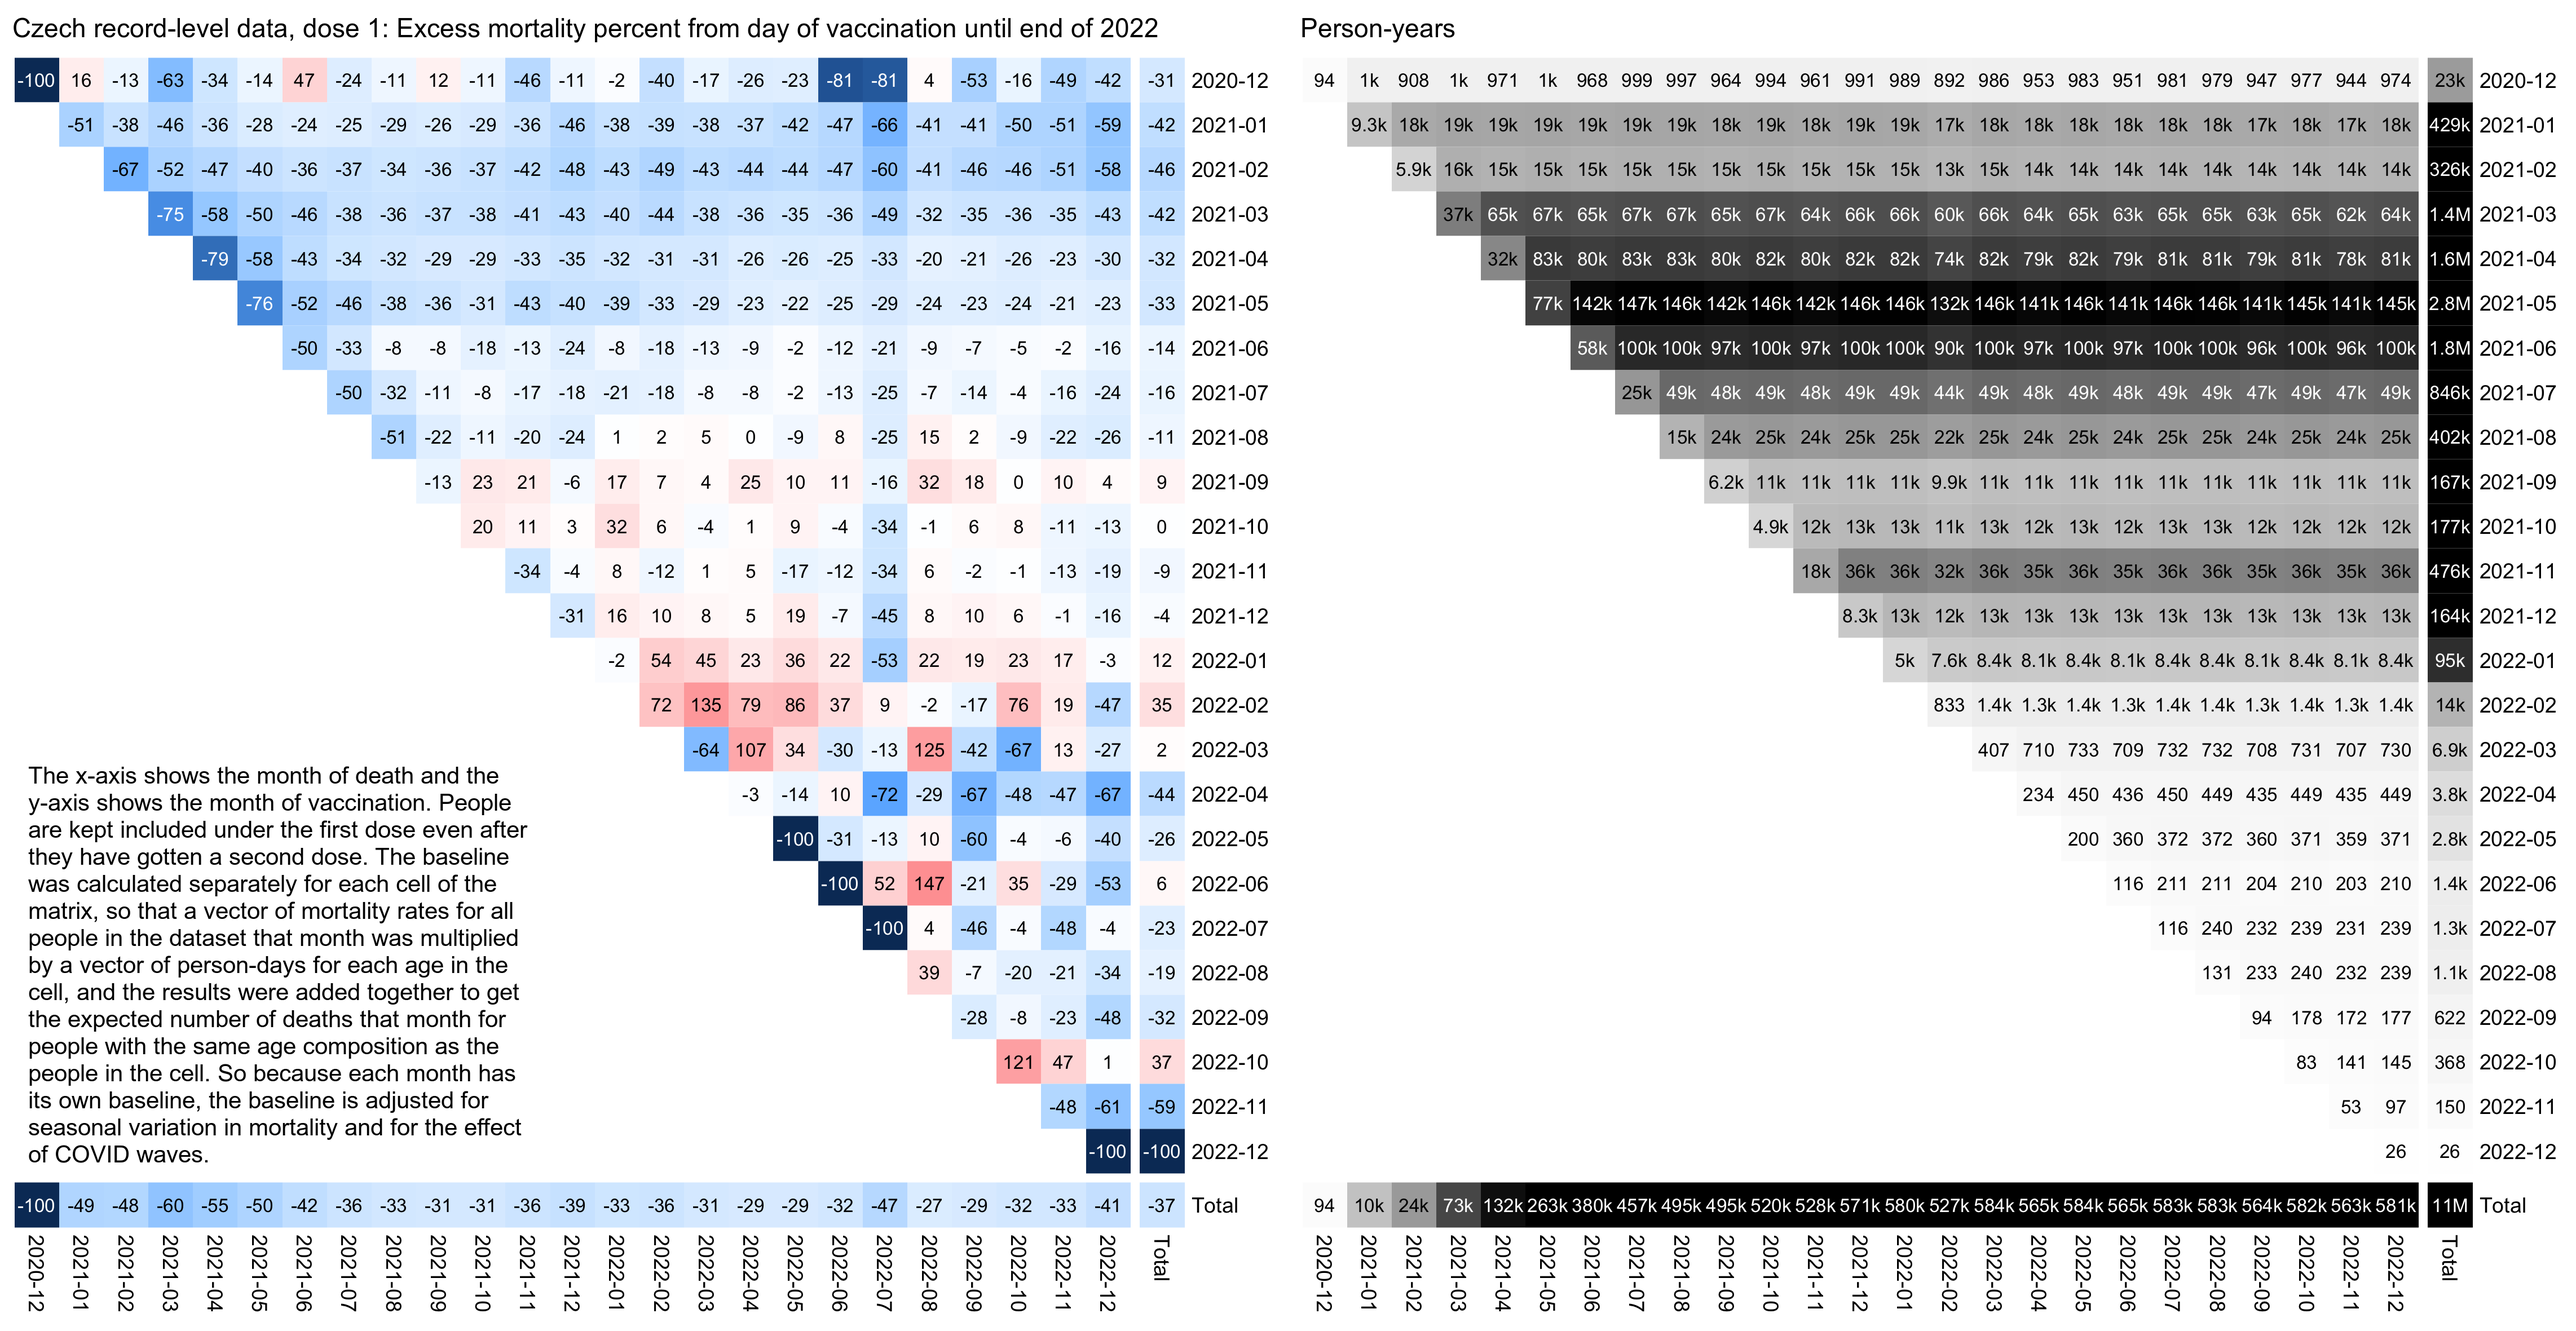
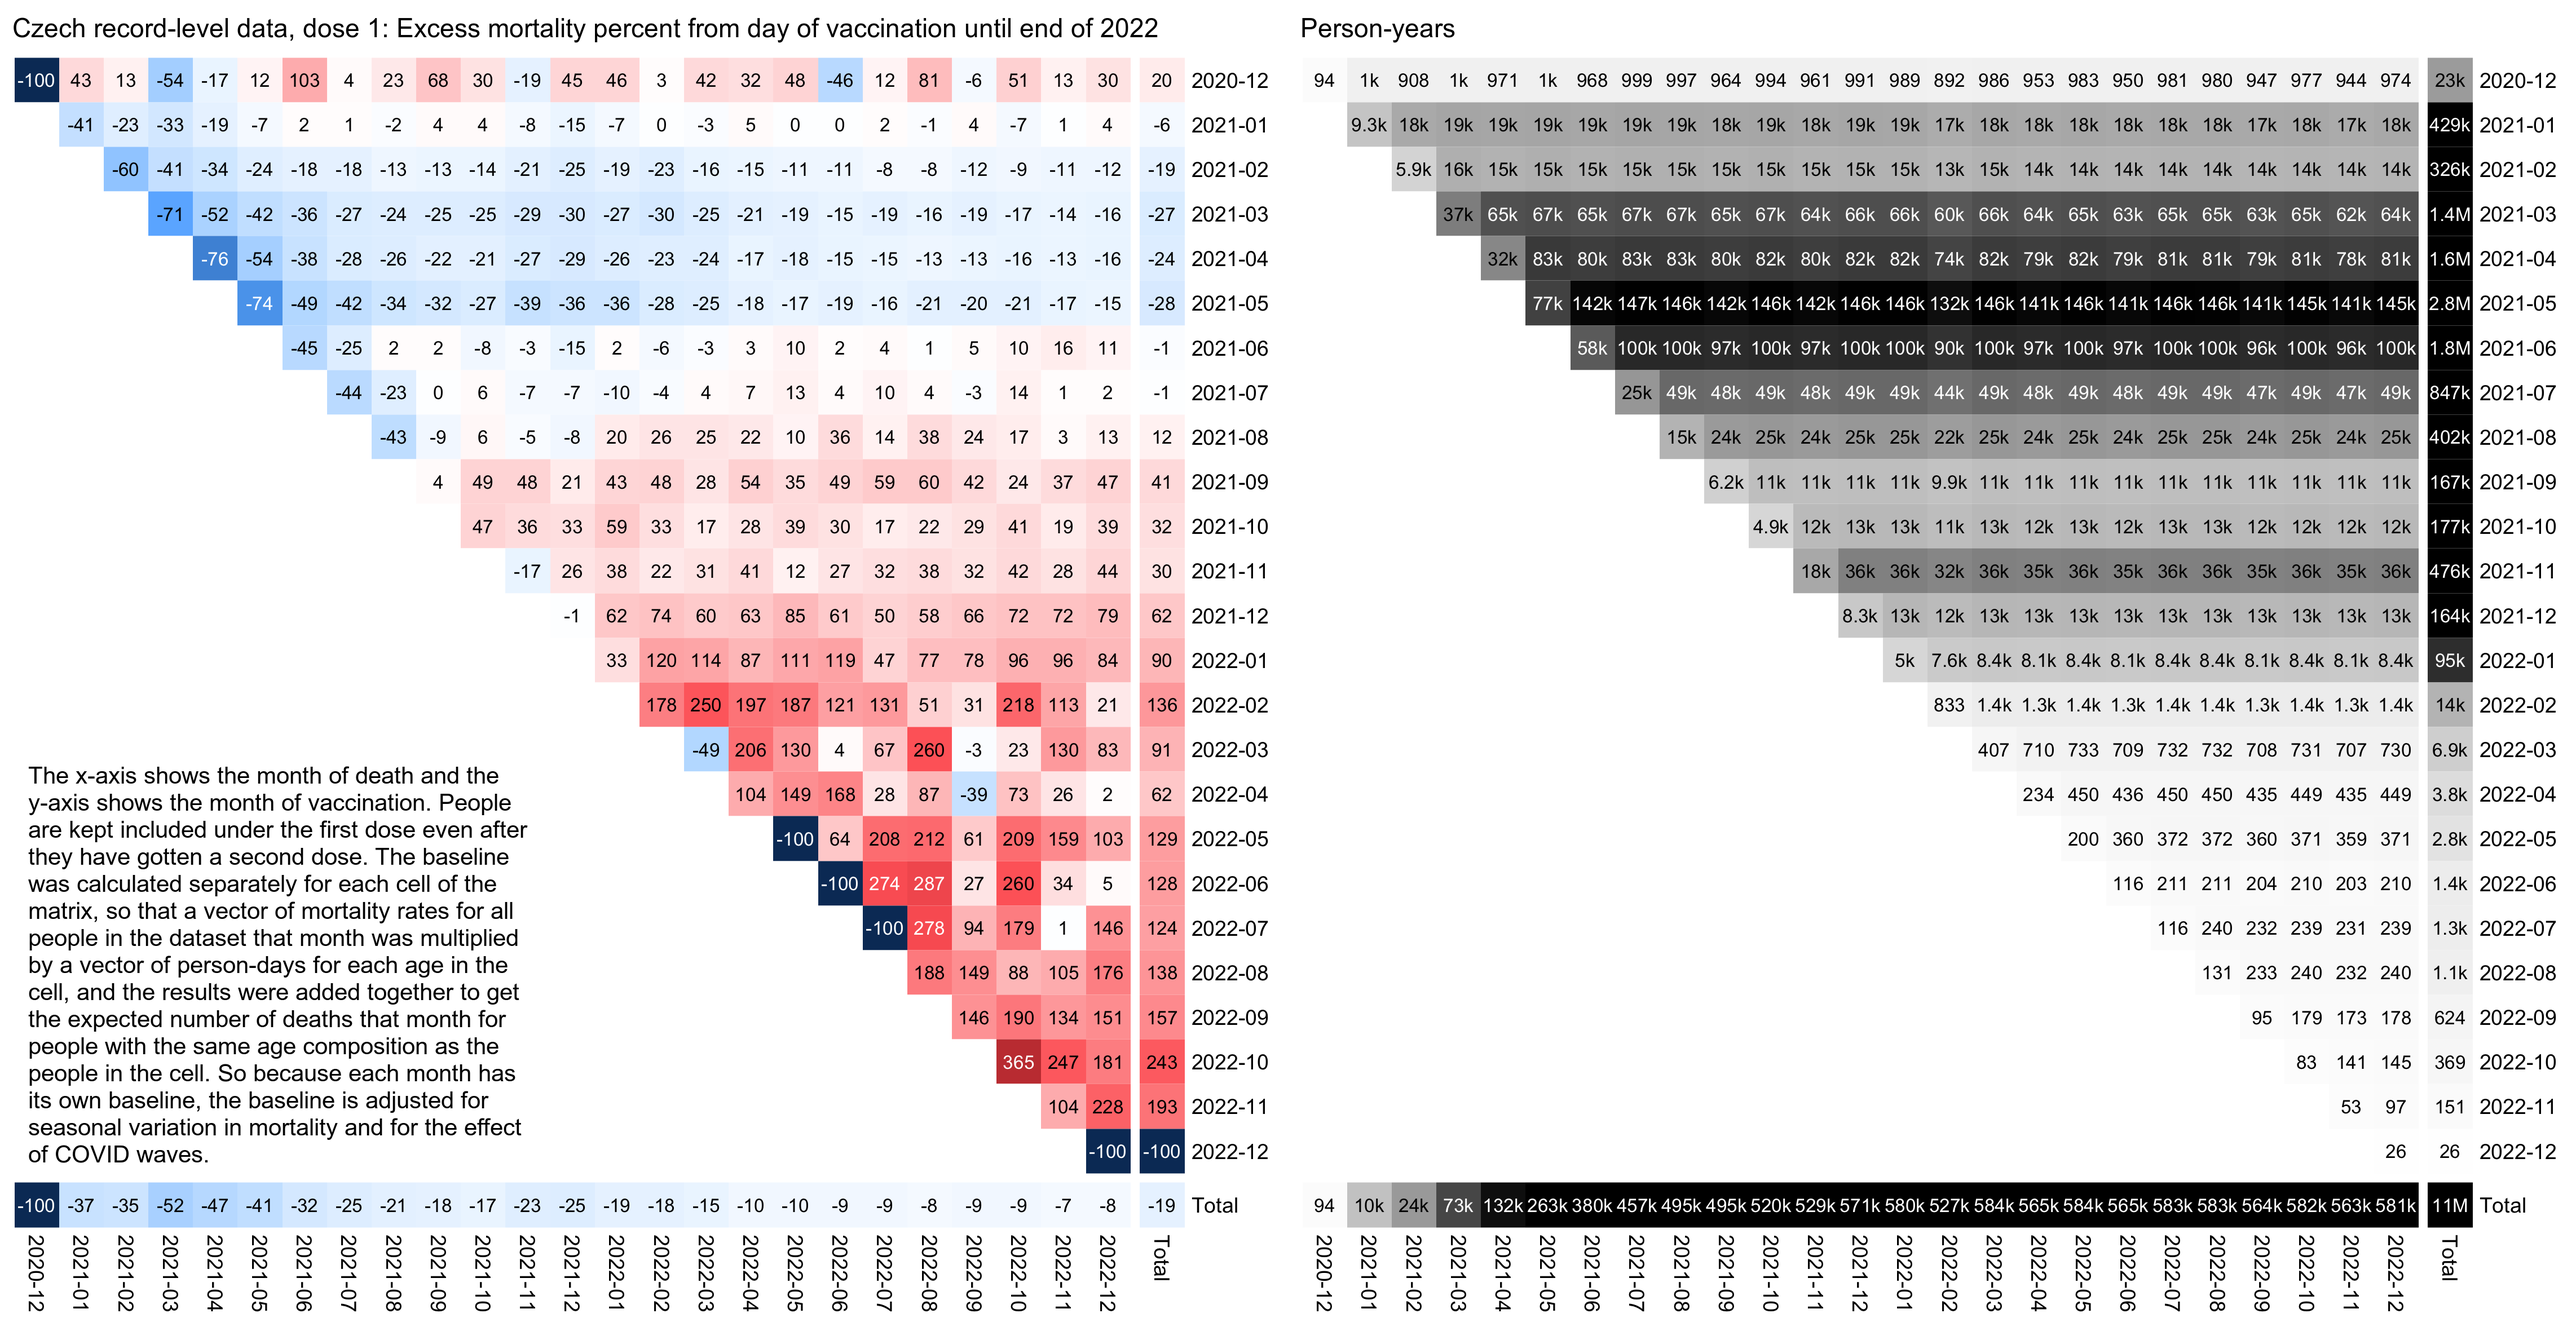
a

Changed region(s): [[0.1865, 0.2474, 0.4663, 0.9276], [0.0, 0.0309, 0.4663, 0.2164], [0.0311, 0.8657, 0.0622, 0.9276]]

diff --git a/czech.html b/czech.html
@@ -468,62 +468,21 @@ system(&quot;w=`identify -format %w i1.png`;pad=38;convert -gravity northwest -p
 <a href=#Excess_mortality_by_month_of_vaccination_and_month_of_death id=Excess_mortality_by_month_of_vaccination_and_month_of_death>Excess mortality by month of vaccination and month of death</a>
 </h2>
 <p>In the New Zealand data released by Barry Young, I noticed an effect where people who got vacinated during the early part of the main vaccine rollout subsequently had lower excess mortality than people who got vaccinated later on, which I called the <span class="quote">&quot;early vaccinee effect&quot;</span>. I later also noticed a similar effect in a May 2024 FOI response to Clare Craig, which showed the number of deaths in England by week of vaccination, month of death, and age group: <a href=statistic.html#Clare_Craig_May_2024_UKHSA_FOI_response_for_deaths_in_vaccinated_people>statistic.html#Clare_Craig_May_2024_UKHSA_FOI_response_for_deaths_in_vaccinated_people</a>.</p>
-<p>A similar <span class="quote">&quot;early vaccinee effect&quot;</span> is also visible in the Czech data, so that for example people who got the first dose in February 2021 subsequently had -46% excess mortality up to the end of 2022, which means that they had almost half as low mortality as the general Czech population matched for age composition. The monthly number of first doses given peaked in May 2021, but people who got vaccinated after the peak subsequently had much higher excess mortality than the early vaccinees:</p>
+<p>A similar early vaccinee effect is also visible in the Czech data. The monthly number of first doses given peaked in May 2021, so people who got the first vaccine dose during February to May 2021 subsequently had the lowest excess mortality, but people who got vaccinated in June 2021 already had close to 0% excess mortality, and the excess mortality gradually increased to over 100% in people who only got the first vaccine dose in 2022:</p>
 <div class="width14">
 <img src="i/czech-triangle.png">
 </div>
 <pre>library(data.table);library(colorspace)
 
-# unique apply (faster for long vectors with many repeated values)
-ua=\(x,fun,...){u=unique(x);fun(u,...)[match(x,u)]}
+buck=fread(&quot;http://sars2.net/f/czbucketsfirstdosetype.gz&quot;)[month&gt;=&quot;2020-12&quot;]
+me=merge(buck,buck[,.(base=sum(dead)/sum(alive)),by=.(age=age,month=month)])
+me=me[me$type!=&quot;Unvaccinated&quot;]
+me$base=me$base*me$alive
+me=rbind(me,cbind(aggregate(me[,5:7],me[,2:4],sum),month=&quot;Total&quot;))
+me=rbind(me,cbind(aggregate(me[,5:7],me[,c(1,2,4)],sum),vaxmonth=&quot;Total&quot;))
+a=aggregate(me[,c(5:7)],me[,c(1,3)],sum)
 
-# factor table (make frequency table using specified factor levels for each dimension)
-fat=\(x,y)table(mapply(factor,x,y,SIMPLIFY=F))
-
-# fast way to get difference in floored years between two dates that are after 1900 and before 2100
-age=\(x,y){d1=as.numeric(x);d2=as.numeric(y);l1=(d1-789)%/%1461+1;l2=(d2-789)%/%1461+1;(d2-d1-(l2-l1))%/%365}
-
-maxdose=4;mindate=as.Date(&quot;2020-1-1&quot;);maxdate=as.Date(&quot;2022-12-31&quot;)
-
-rec=fread(&quot;Czech/data/CR_records.csv&quot;)
-t=data.table(id=1:nrow(rec),death=rec$DatumUmrti)
-set.seed(0);t$birth=ua(ua(rec$Rok_narozeni,paste0,&quot;-1-1&quot;),as.Date)+sample(0:364,nrow(t),T)
-t=t[rep(1:nrow(t),5),]
-t$dose=rep(0:4,each=nrow(rec))
-t$date=c(rep(mindate,nrow(rec)),ua(unlist(lapply(1:4,\(i)rec[[paste0(&quot;Datum_&quot;,i)]])),as.Date,&quot;1970-1-1&quot;))
-t=t[!is.na(date)]
-
-dates=as.character(seq(mindate,maxdate,1));vaxmonth=ua(t$date,format,&quot;%Y-%m&quot;)
-dim=list(date=dates,vaxmonth=substr(seq(mindate,maxdate,&quot;month&quot;),1,7),dose=0:4,age=0:120)
-pop=fat(list(ua(t$date,as.character),vaxmonth,t$dose,age(t$birth,t$date)),dim)
-dob=as.POSIXlt(t$birth)
-
-for(i in 2020:2022){
-  bday=dob;bday$year=rep(i-1900,length(bday));bday=as.Date(bday);newage=age(dob,bday)
-  pick=bday&gt;=t$date&amp;bday&lt;=maxdate
-  ta=fat(list(ua(bday[pick],as.character),vaxmonth[pick],t$dose[pick],newage[pick]),dim)
-  pop=pop+ta;ta2=ta[,,,c(2:121,121)];ta2[,,,121]=0;pop=pop-ta2
-}
-
-pick=!is.na(t$death)
-dead=fat(list(ua(t$death[pick],as.character),vaxmonth[pick],t$dose[pick],age(t$birth[pick],t$death[pick])),dim)
-pop=pop-dead
-
-d=cbind(expand.grid(dim),pop=c(pop),dead=c(dead))
-d$pop=unlist(tapply(d$pop,d[,2:4],cumsum))
-d=d[d$pop&gt;0,]
-
-a=aggregate(d[,5:6],cbind(month=ua(d$date,substr,1,7),d[,2:4]),sum)
-base=a[a$dose==0,];base=aggregate(base[,5:6],base[,c(1,4)],sum)
-a=merge(a,cbind(base=base$dead/base$pop,base[,1:2]))
-a$base=a$base*a$pop
-a$vaxmonth=levels(a$vaxmonth)[a$vaxmonth];a=a[a$vaxmonth&gt;=&quot;2020-12&quot;,]
-a=rbind(a,cbind(aggregate(a[,c(5:7)],a[,2:4],sum),month=&quot;Total&quot;))
-a=rbind(a,cbind(aggregate(a[,c(5:7)],a[,c(1,2,4)],sum),vaxmonth=&quot;Total&quot;))
-a=aggregate(a[,5:7],a[,c(1,3,4)],sum)
-dose=1;a=a[a$dose==dose,]
-
-mpop=tapply(a$pop,a[,2:1],c)/365
+mpop=tapply(a$alive,a[,2:1],c)/365
 disp=tapply((a$dead/a$base-1)*100,a[,2:1],round)
 m=tapply((a$dead-a$base)*100/ifelse(a$dead&gt;a$base,a$base,a$dead),a[,2:1],c)
 
@@ -537,7 +496,7 @@ m[is.infinite(m)]=-maxcolor
 
 pal=HSV(c(210,210,210,210,0,0,0,0,0),c(.9,.75,.6,.3,0,.3,.6,.75,.9),c(.4,.65,1,1,1,1,1,.65,.4))
 
-pheatmap::pheatmap(m,filename=paste0(&quot;mort.&quot;,dose,&quot;.png&quot;),display_numbers=disp,
+pheatmap::pheatmap(m,filename=&quot;mort.png&quot;,display_numbers=disp,
   gaps_col=ncol(m)-1,gaps_row=nrow(m)-1,
   cluster_rows=F,cluster_cols=F,legend=F,
   cellwidth=19,cellheight=19,fontsize=9,fontsize_number=8,border_color=NA,na_col=&quot;white&quot;,
@@ -554,14 +513,15 @@ exp2=.6
 mpop=mpop^exp2
 maxcolor2=max(mpop[1:(nrow(mpop)-1),1:(ncol(mpop)-1)],na.rm=T)
 
-pheatmap::pheatmap(mpop,filename=paste0(&quot;pop.&quot;,dose,&quot;.png&quot;),display_numbers=disp2,
+pheatmap::pheatmap(mpop,filename=&quot;pop.png&quot;,display_numbers=disp2,
   gaps_col=ncol(m)-1,gaps_row=nrow(m)-1,
   cluster_rows=F,cluster_cols=F,legend=F,
   cellwidth=19,cellheight=19,fontsize=9,fontsize_number=8,border_color=NA,na_col=&quot;white&quot;,
   number_color=ifelse(!(is.na(mpop))&amp;mpop&gt;maxcolor2*.45,&quot;white&quot;,&quot;black&quot;),
   breaks=seq(0,maxcolor2,,256),sapply(seq(1,0,,256),\(i)rgb(i,i,i)))
 
-system(&quot;w=`identify -format %w mort.1.png`;pad=44;convert -gravity northwest -pointsize 46 -font Arial \\( -splice x24 -size $[w-pad]x caption:&#39;Czech record-level data, dose 1: Excess mortality percent from day of vaccination until end of 2022&#39; -extent $[w-pad]x -gravity center \\) mort.1.png -append l1.png;convert -pointsize 46 -font Arial -gravity northwest \\( -splice x24 -size $[w-40]x caption:Person-years -extent $[w-pad]x -gravity center \\) pop.1.png -append l2.png;convert -gravity south l[12].png +append 0.png&quot;)
+system(&quot;w=`identify -format %w mort.png`;pad=44;convert -gravity northwest -pointsize 46 -font Arial \\( -splice x24 -size $[w-pad]x caption:&#39;Czech record-level data, dose 1: Excess mortality percent from day of vaccination until end of 2022&#39; -extent $[w-pad]x -gravity center \\) mort.png -append l1.png;convert -pointsize 46 -font Arial -gravity northwest \\( -splice x24 -size $[w-40]x caption:Person-years -extent $[w-pad]x -gravity center \\) pop.png -append l2.png;convert -gravity south l[12].png +append 0.png&quot;)
+
 system(&quot;convert 0.png -fill black -gravity southwest -size 900x900 -pointsize 42 -font Arial caption:&#39;The x-axis shows the month of death and the y-axis shows the month of vaccination. People are kept included under the first dose even after they have gotten a second dose. The baseline was calculated separately for each cell of the matrix, so that a vector of mortality rates for all people in the dataset that month was multiplied by a vector of person-days for each age in the cell, and the results were added together to get the expected number of deaths that month for people with the same age composition as the people in the cell. So because each month has its own baseline, the baseline is adjusted for seasonal variation in mortality and for the effect of COVID waves.&#39; -gravity southwest -geometry +50+290 -composite 1.png&quot;)</pre>
 <h2>
 <a href=#Excess_mortality_by_type_of_first_vaccine id=Excess_mortality_by_type_of_first_vaccine>Excess mortality by type of first vaccine</a>
@@ -608,7 +568,7 @@ for(day in as.list(seq(mindate,maxdate,1))){
 }
 
 fwrite(buck,&quot;czbucketsfirstdosetype&quot;)</pre>
-<p>Code for first plot:</p>
+<p>Code for the first plot:</p>
 <pre>library(data.table);library(colorspace)
 
 buck=fread(&quot;http://sars2.net/f/czbucketsfirstdosetype.gz&quot;)[month&gt;=&quot;2021-01&quot;]
@@ -657,14 +617,13 @@ pheatmap::pheatmap(mpop2,filename=&quot;i2.png&quot;,display_numbers=disp2,
   sapply(seq(1,0,,256),\(i)rgb(i,i,i)))
 
 system(&quot;w=`identify -format %w i1.png`;pad=40;convert -gravity northwest -pointsize 40 -font Arial \\( -splice x24 -size $[w-pad]x caption:&#39;Czech record-level data: Excess mortality percent by type of first vaccine. People are kept included under the first dose after they get a second dose. The baseline was calculated separately for each cell of the matrix, so that a vector of mortality rates for all people in the dataset that month was multiplied by a vector of person-days for each age in the cell, and the results were added together to get the expected number of deaths that month for people with the same age composition as the people in the cell.&#39; -extent $[w-pad]x -gravity center \\) i1.png -gravity northwest \\( -size $[w-pad]x caption:&#39;Person-years by dose and month of death&#39; -extent $[w-pad]x -gravity center \\) i2.png -append 1.png&quot;)</pre>
-<p>Code for second plot:</p>
+<p>Code for the second plot:</p>
 <pre>library(data.table);library(colorspace)
 
-buck=fread(&quot;s/f/czbucketsfirstdosetype.gz&quot;)[month&gt;=&quot;2020-12&quot;]
+buck=fread(&quot;http://sars2.net/f/czbucketsfirstdosetype.gz&quot;)[month&gt;=&quot;2020-12&quot;]
 me=merge(buck,buck[,.(base=sum(dead)/sum(alive)),by=.(age=age,month=month)])
 me$base=me$base*me$alive
 me=rbind(me,cbind(aggregate(me[,5:7],me[,c(1,2,4)],sum),vaxmonth=&quot;Total&quot;))
-
 a=aggregate(me[,c(5:7)],me[,3:4],sum)
 
 vax=a[a$type!=&quot;Unvaccinated&quot;,]
@@ -692,7 +651,7 @@ kimi=\(x){e=floor(log10(ifelse(x==0,1,abs(x))));e2=pmax(e,0)%/%3+1
   x[]=ifelse(abs(x)&lt;10,round(x),paste0(round(x/1e3^(e2-1),ifelse(e%%3==0,1,0)),c(&quot;&quot;,&quot;k&quot;,&quot;M&quot;,&quot;B&quot;,&quot;T&quot;)[e2]));x}
 
 disp2=kimi(mpop);exp2=.6;mpop=mpop^exp2
-maxcolor2=max(mpop[1:(nrow(mpop)-1),1:(ncol(mpop)-1)],na.rm=T)
+maxcolor2=max(mpop[,1:(ncol(mpop)-1)],na.rm=T)
 
 pheatmap::pheatmap(mpop,filename=&quot;pop.png&quot;,display_numbers=disp2,
   cluster_rows=F,cluster_cols=F,legend=F,
